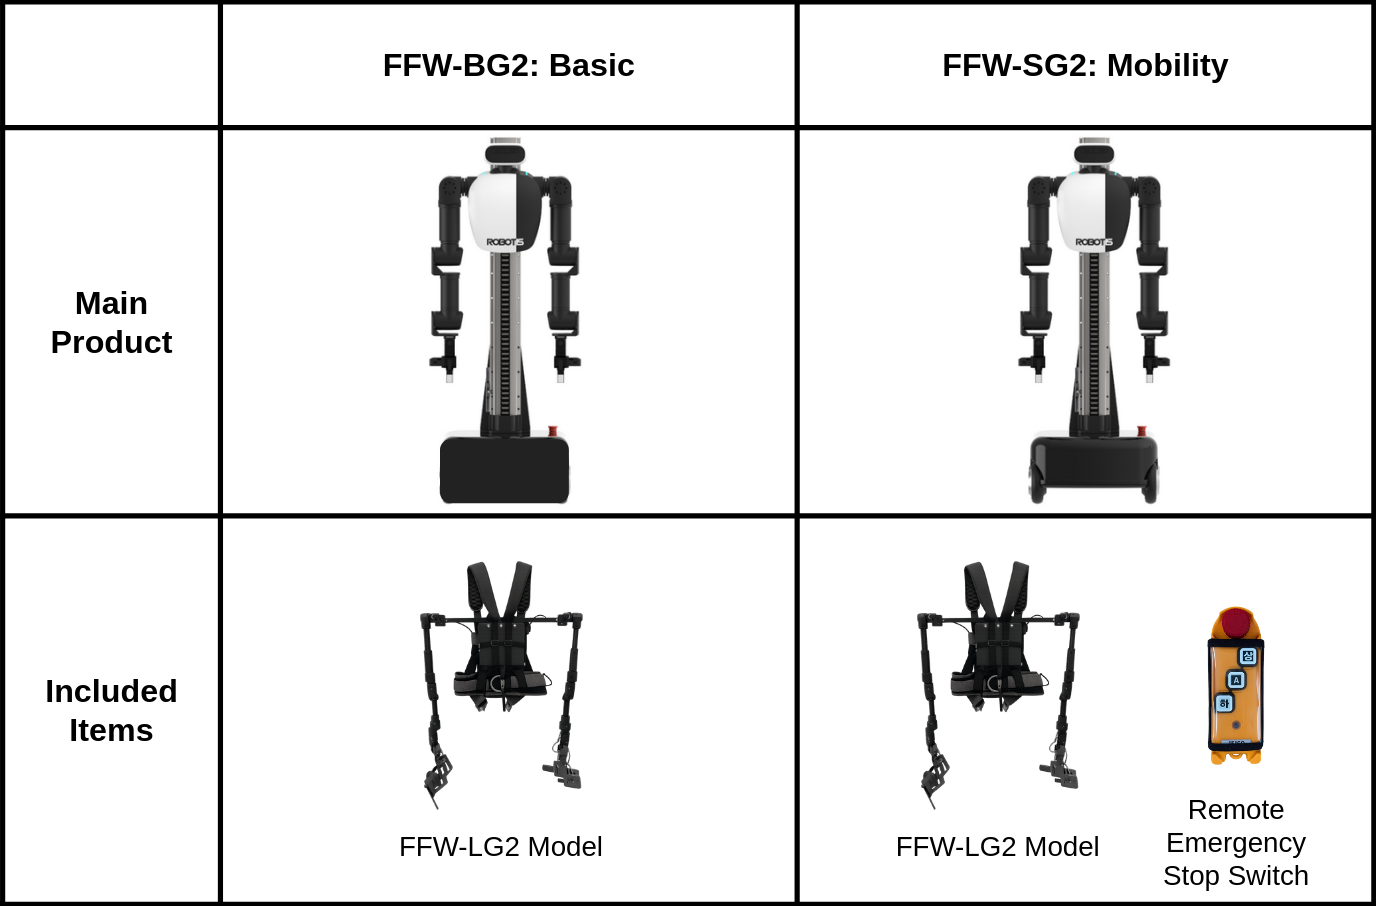
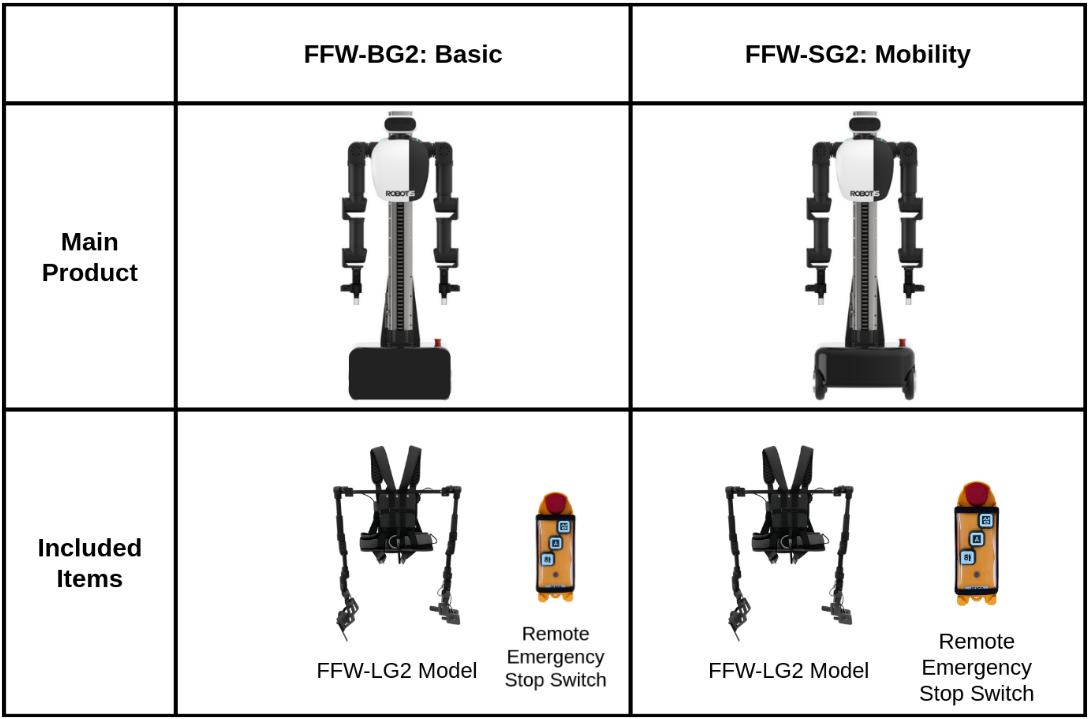
added additional ssh info and e stop

diff --git a/docs/ai_worker/setup_guide_ai_worker.md b/docs/ai_worker/setup_guide_ai_worker.md
@@ -58,6 +58,11 @@ AI Worker supports mDNS, allowing you to connect without manually checking the I
  ```
 Replace SNPR48A0000 with the serial number printed on the back of the robot body.
 ![Back of the Follower](/quick_start_guide/ai_worker/serial_number.png)
+3. When prompted, enter the system password `root` .
+
+If hostname-based access is not available, use one of the following methods:
+1. Router connection: Connect both your user PC and the AI Worker LAN port to the same router using Ethernet cables, then identify the robot PC on the local network.
+2. Direct IP check via HDMI: Connect a monitor to the Orin via HDMI, log in locally, and check the current IP address before connecting through SSH.
 
 == FFW-SG2
 
@@ -73,18 +78,35 @@ Replace SNPR48A0000 with the serial number printed on the back of the robot body
  ```
  Replace SNPR48A0000 with the serial number printed on the back of the robot body.
 
-4. When prompted, enter the system password.
+4. When prompted, enter the system password `root` .
 
 ::: info
 Both the Wi-Fi and system passwords are initially configured by ROBOTIS. For security purposes, you may change these passwords if necessary.
 :::
 
+## Remote E-STOP Usage
+
+![remote_e_stop](/quick_start_guide/ai_worker/remote_e_stop.png)
+
+The Remote E-STOP device is the safety stop controller for AI WORKER. It is used to perform an emergency stop and to release the initial safety lock.
+
+Press the red mushroom button circled above to activate the E-STOP.
+To release it, rotate the button clockwise, then press the **A** button.
+
+The other buttons have no function.
+
+::: warning
+When AI WORKER is powered on for the first time, it remains in a **torque-off** state.
+To enable communication with the DYNAMIXELs, you must press the **A** button on the Remote E-STOP.
+When the safety lock is released, you will hear a beep sound.
+:::
+
 ## Software Setup
+The software setup instructions below are intended for development on a `user PC`. **_Note that the robot PC on the AI WORKER is already pre-configured with the same setup. (no additional installation is required.)_**
+
 AI WORKER relies on two main repositories:
 - [ai_worker](https://github.com/ROBOTIS-GIT/ai_worker): Provides support for controlling DYNAMIXEL actuators using ros2_control and enables teleoperation functionality.
 - [physical_ai_tools](https://github.com/ROBOTIS-GIT/physical_ai_tools): A set of tools for imitation learning, including data collection, training, model inference, and visualization utilities.
-
-The software setup instructions below are intended for development on a `user PC`. **_Note that the robot PC on the AI WORKER is already pre-configured with the same setup._**
 
 ::: danger
 ⚠️ **On the AI Worker Orin:** Do not run `apt upgrade` command. Upgrading packages may cause conflicts and break robot functionality.

diff --git a/docs/ai_worker/hardware_ai_worker.md b/docs/ai_worker/hardware_ai_worker.md
@@ -16,8 +16,8 @@ This comprehensive hardware design enables the AI Worker to perform complex mani
 | LG2 | 1 |
 | SMPS for robot | 2 |
 | SMPS for LG2 | 1 |
-| E stop remote controller (Only SG2) | 1 |
-| USB cable (1m) | 1 |
+| E stop remote controller | 1 |
+| USB cable | 1 |
 
 ## Product Models
 ![model_name](/specifications/ai_worker/model_name.png)
@@ -26,7 +26,7 @@ This comprehensive hardware design enables the AI Worker to perform complex mani
 ![model_lineup](/specifications/ai_worker/model_lineup.png)
 
 :::info
-**FFW-BG2** is sold in Korea only.  
+**FFW-BG2** is sold in Korea only.
 **FFW-SH3P** is currently in preparation for release.
 :::
 